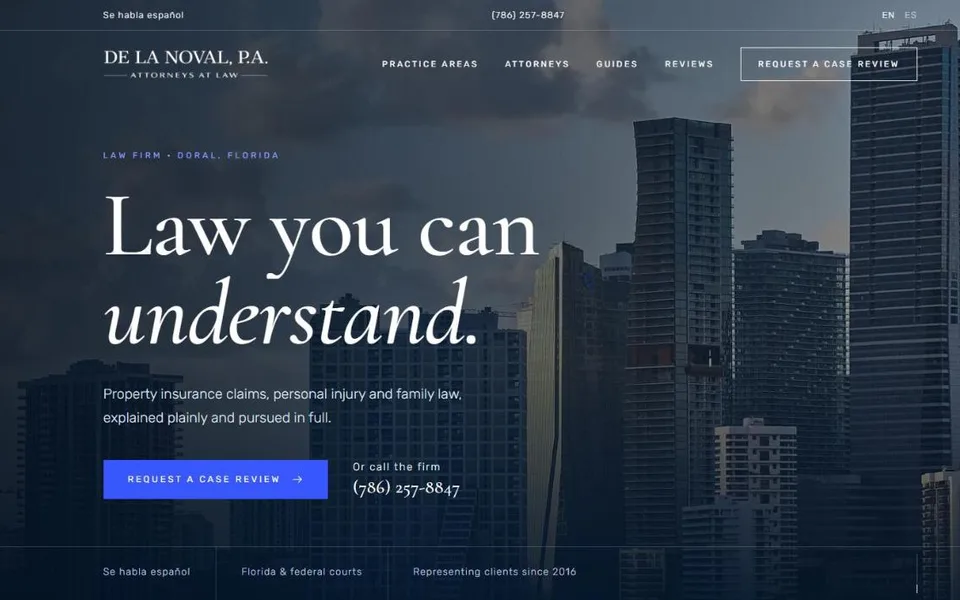
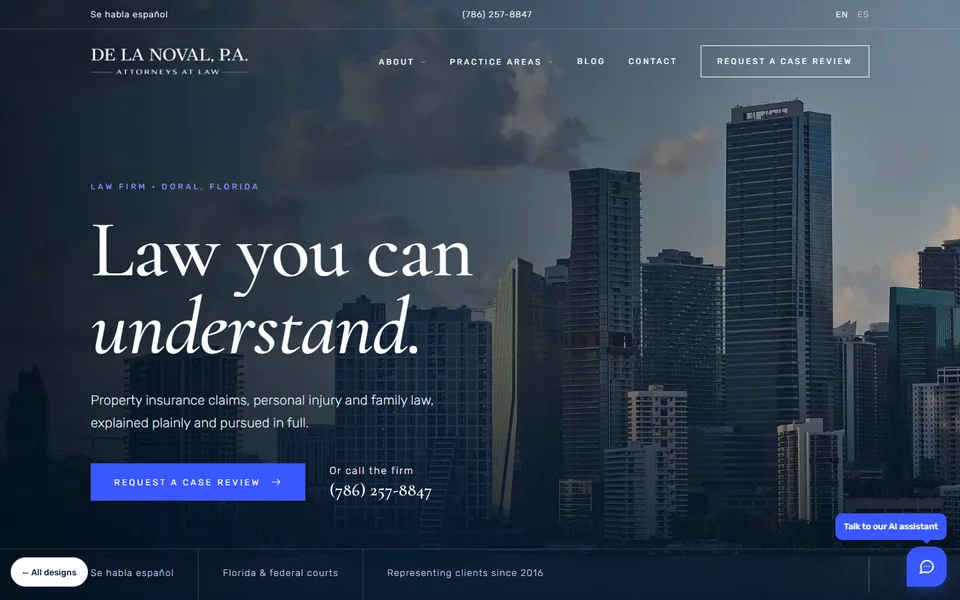
Prepare the preview for Lazaro's full review
Gallery now introduces the whole 11-page site and says the copy is a
draft pending his confirmation; homepage preview image and card text
refreshed. Unwritten blog topics show 'Coming soon' instead of dead
links. The draft tag now shows on phones too.

diff --git a/blog/index.html b/blog/index.html
@@ -268,7 +268,7 @@
 
   .mock-back{position:fixed;left:16px;bottom:20px;z-index:40;display:inline-flex;align-items:center;min-height:44px;padding:0 16px;border-radius:999px;background:#fff;color:var(--navy);border:1px solid var(--line);font:500 13px/1 var(--sans);text-decoration:none;box-shadow:0 6px 18px rgba(5,27,52,.16)}
   .mock-draft{position:fixed;left:148px;bottom:20px;z-index:40;display:inline-flex;align-items:center;min-height:44px;padding:0 16px;border-radius:999px;background:var(--ice);color:var(--navy);border:1px solid var(--royal-tint);font:400 12px/1 var(--sans);letter-spacing:.06em;box-shadow:0 6px 18px rgba(5,27,52,.16)}
-  @media (max-width:760px){.mock-draft{display:none}}
+  @media (max-width:760px){.mock-draft{left:16px;bottom:72px;min-height:32px;padding:0 12px;font-size:11px}}
 
   @media (prefers-reduced-motion:reduce){.person .ph img{transition:none}}
 
@@ -368,6 +368,8 @@
   .guide .meta span:last-child{color:var(--muted);letter-spacing:.16em}
   .guide h3{font-size:clamp(26px,2.2vw,34px);line-height:1.12;margin-bottom:22px}
   .guide .more{margin-top:auto;color:var(--navy)}
+  .guide.soon .more{color:var(--muted)}
+  .guide.soon:hover .ph img{transform:none}
   @media (max-width:900px){.cards{grid-template-columns:1fr 1fr}}
   @media (max-width:640px){.cards{grid-template-columns:1fr;row-gap:64px}.guide .ph img{aspect-ratio:16/9}}
 
@@ -439,7 +441,7 @@
           <span class="more sweep nudge">Read the article <svg width="16" height="16" viewBox="0 0 24 24" fill="none" stroke="currentColor" stroke-width="1.5" aria-hidden="true"><path d="M4 12h16M14 6l6 6-6 6"/></svg></span>
         </div>
       </a>
-      <div class="cards" data-stagger="100"><a class="guide" href="#" data-cat="injury" data-reveal><div class="ph"><img src="../assets/img/stock/brickell-night.webp" alt="" width="1024" height="768" loading="lazy"></div><div class="meta"><span>Personal injury</span><span>4 min read</span></div><h3>Hurt in a crash? Five things to do in the first week</h3><span class="more nudge">Read the article <svg width="16" height="16" viewBox="0 0 24 24" fill="none" stroke="currentColor" stroke-width="1.5" aria-hidden="true"><path d="M4 12h16M14 6l6 6-6 6"/></svg></span></a><a class="guide" href="#" data-cat="es" data-reveal lang="es"><div class="ph"><img src="../assets/img/stock/pen.webp" alt="" width="1024" height="769" loading="lazy"></div><div class="meta"><span>En español</span><span>5 min</span></div><h3>¿Le negaron su reclamo de seguro? Sus próximos pasos</h3><span class="more nudge">Leer el artículo <svg width="16" height="16" viewBox="0 0 24 24" fill="none" stroke="currentColor" stroke-width="1.5" aria-hidden="true"><path d="M4 12h16M14 6l6 6-6 6"/></svg></span></a><a class="guide" href="#" data-cat="property" data-reveal><div class="ph"><img src="../assets/img/stock/skyline-storm.webp" alt="" width="1024" height="511" loading="lazy"></div><div class="meta"><span>Property claims</span><span>6 min read</span></div><h3>Underpaid roof claim? How to read your insurer's estimate</h3><span class="more nudge">Read the article <svg width="16" height="16" viewBox="0 0 24 24" fill="none" stroke="currentColor" stroke-width="1.5" aria-hidden="true"><path d="M4 12h16M14 6l6 6-6 6"/></svg></span></a><a class="guide" href="#" data-cat="injury" data-reveal><div class="ph"><img src="../assets/img/stock/brickell-river.webp" alt="" width="1024" height="683" loading="lazy"></div><div class="meta"><span>Personal injury</span><span>3 min read</span></div><h3>Florida's two-year deadline for injury claims, explained</h3><span class="more nudge">Read the article <svg width="16" height="16" viewBox="0 0 24 24" fill="none" stroke="currentColor" stroke-width="1.5" aria-hidden="true"><path d="M4 12h16M14 6l6 6-6 6"/></svg></span></a><a class="guide" href="#" data-cat="family" data-reveal><div class="ph"><img src="../assets/img/stock/glass-tower.webp" alt="" width="960" height="720" loading="lazy"></div><div class="meta"><span>Family law</span><span>5 min read</span></div><h3>Time-sharing in Florida: what parents should know</h3><span class="more nudge">Read the article <svg width="16" height="16" viewBox="0 0 24 24" fill="none" stroke="currentColor" stroke-width="1.5" aria-hidden="true"><path d="M4 12h16M14 6l6 6-6 6"/></svg></span></a><a class="guide" href="#" data-cat="property" data-reveal><div class="ph"><img src="../assets/img/stock/library.webp" alt="" width="1024" height="683" loading="lazy"></div><div class="meta"><span>Property claims</span><span>4 min read</span></div><h3>What a "reservation of rights" letter from your insurer means</h3><span class="more nudge">Read the article <svg width="16" height="16" viewBox="0 0 24 24" fill="none" stroke="currentColor" stroke-width="1.5" aria-hidden="true"><path d="M4 12h16M14 6l6 6-6 6"/></svg></span></a></div>
+      <div class="cards" data-stagger="100"><div class="guide soon" data-cat="injury" data-reveal><div class="ph"><img src="../assets/img/stock/brickell-night.webp" alt="" width="1024" height="768" loading="lazy"></div><div class="meta"><span>Personal injury</span><span>4 min read</span></div><h3>Hurt in a crash? Five things to do in the first week</h3><span class="more">Coming soon</span></div><div class="guide soon" data-cat="es" data-reveal lang="es"><div class="ph"><img src="../assets/img/stock/pen.webp" alt="" width="1024" height="769" loading="lazy"></div><div class="meta"><span>En español</span><span>5 min</span></div><h3>¿Le negaron su reclamo de seguro? Sus próximos pasos</h3><span class="more">Próximamente</span></div><div class="guide soon" data-cat="property" data-reveal><div class="ph"><img src="../assets/img/stock/skyline-storm.webp" alt="" width="1024" height="511" loading="lazy"></div><div class="meta"><span>Property claims</span><span>6 min read</span></div><h3>Underpaid roof claim? How to read your insurer's estimate</h3><span class="more">Coming soon</span></div><div class="guide soon" data-cat="injury" data-reveal><div class="ph"><img src="../assets/img/stock/brickell-river.webp" alt="" width="1024" height="683" loading="lazy"></div><div class="meta"><span>Personal injury</span><span>3 min read</span></div><h3>Florida's two-year deadline for injury claims, explained</h3><span class="more">Coming soon</span></div><div class="guide soon" data-cat="family" data-reveal><div class="ph"><img src="../assets/img/stock/glass-tower.webp" alt="" width="960" height="720" loading="lazy"></div><div class="meta"><span>Family law</span><span>5 min read</span></div><h3>Time-sharing in Florida: what parents should know</h3><span class="more">Coming soon</span></div><div class="guide soon" data-cat="property" data-reveal><div class="ph"><img src="../assets/img/stock/library.webp" alt="" width="1024" height="683" loading="lazy"></div><div class="meta"><span>Property claims</span><span>4 min read</span></div><h3>What a "reservation of rights" letter from your insurer means</h3><span class="more">Coming soon</span></div></div>
     </div>
   </section>
 

diff --git a/blog/after-the-storm/index.html b/blog/after-the-storm/index.html
@@ -268,7 +268,7 @@
 
   .mock-back{position:fixed;left:16px;bottom:20px;z-index:40;display:inline-flex;align-items:center;min-height:44px;padding:0 16px;border-radius:999px;background:#fff;color:var(--navy);border:1px solid var(--line);font:500 13px/1 var(--sans);text-decoration:none;box-shadow:0 6px 18px rgba(5,27,52,.16)}
   .mock-draft{position:fixed;left:148px;bottom:20px;z-index:40;display:inline-flex;align-items:center;min-height:44px;padding:0 16px;border-radius:999px;background:var(--ice);color:var(--navy);border:1px solid var(--royal-tint);font:400 12px/1 var(--sans);letter-spacing:.06em;box-shadow:0 6px 18px rgba(5,27,52,.16)}
-  @media (max-width:760px){.mock-draft{display:none}}
+  @media (max-width:760px){.mock-draft{left:16px;bottom:72px;min-height:32px;padding:0 12px;font-size:11px}}
 
   @media (prefers-reduced-motion:reduce){.person .ph img{transition:none}}
 
@@ -368,6 +368,8 @@
   .guide .meta span:last-child{color:var(--muted);letter-spacing:.16em}
   .guide h3{font-size:clamp(26px,2.2vw,34px);line-height:1.12;margin-bottom:22px}
   .guide .more{margin-top:auto;color:var(--navy)}
+  .guide.soon .more{color:var(--muted)}
+  .guide.soon:hover .ph img{transform:none}
   @media (max-width:900px){.cards{grid-template-columns:1fr 1fr}}
   @media (max-width:640px){.cards{grid-template-columns:1fr;row-gap:64px}.guide .ph img{aspect-ratio:16/9}}
 
@@ -496,7 +498,7 @@
         <div class="label" data-reveal>Keep reading</div>
         <h2 id="related-title" data-reveal style="--d:100ms">Related articles</h2>
       </div>
-      <div class="cards" data-stagger="100"><a class="guide" href="#" data-cat="property" data-reveal><div class="ph"><img src="../../assets/img/stock/skyline-storm.webp" alt="" width="1024" height="511" loading="lazy"></div><div class="meta"><span>Property claims</span><span>6 min read</span></div><h3>Underpaid roof claim? How to read your insurer's estimate</h3><span class="more nudge">Read the article <svg width="16" height="16" viewBox="0 0 24 24" fill="none" stroke="currentColor" stroke-width="1.5" aria-hidden="true"><path d="M4 12h16M14 6l6 6-6 6"/></svg></span></a><a class="guide" href="#" data-cat="es" data-reveal lang="es"><div class="ph"><img src="../../assets/img/stock/pen.webp" alt="" width="1024" height="769" loading="lazy"></div><div class="meta"><span>En español</span><span>5 min</span></div><h3>¿Le negaron su reclamo de seguro? Sus próximos pasos</h3><span class="more nudge">Leer el artículo <svg width="16" height="16" viewBox="0 0 24 24" fill="none" stroke="currentColor" stroke-width="1.5" aria-hidden="true"><path d="M4 12h16M14 6l6 6-6 6"/></svg></span></a><a class="guide" href="#" data-cat="injury" data-reveal><div class="ph"><img src="../../assets/img/stock/brickell-night.webp" alt="" width="1024" height="768" loading="lazy"></div><div class="meta"><span>Personal injury</span><span>4 min read</span></div><h3>Hurt in a crash? Five things to do in the first week</h3><span class="more nudge">Read the article <svg width="16" height="16" viewBox="0 0 24 24" fill="none" stroke="currentColor" stroke-width="1.5" aria-hidden="true"><path d="M4 12h16M14 6l6 6-6 6"/></svg></span></a></div>
+      <div class="cards" data-stagger="100"><div class="guide soon" data-cat="property" data-reveal><div class="ph"><img src="../../assets/img/stock/skyline-storm.webp" alt="" width="1024" height="511" loading="lazy"></div><div class="meta"><span>Property claims</span><span>6 min read</span></div><h3>Underpaid roof claim? How to read your insurer's estimate</h3><span class="more">Coming soon</span></div><div class="guide soon" data-cat="es" data-reveal lang="es"><div class="ph"><img src="../../assets/img/stock/pen.webp" alt="" width="1024" height="769" loading="lazy"></div><div class="meta"><span>En español</span><span>5 min</span></div><h3>¿Le negaron su reclamo de seguro? Sus próximos pasos</h3><span class="more">Próximamente</span></div><div class="guide soon" data-cat="injury" data-reveal><div class="ph"><img src="../../assets/img/stock/brickell-night.webp" alt="" width="1024" height="768" loading="lazy"></div><div class="meta"><span>Personal injury</span><span>4 min read</span></div><h3>Hurt in a crash? Five things to do in the first week</h3><span class="more">Coming soon</span></div></div>
     </div>
   </section>
 

diff --git a/index.html b/index.html
@@ -4,7 +4,7 @@
 <meta charset="utf-8">
 <meta name="viewport" content="width=device-width, initial-scale=1">
 <title>Website Redesign | De La Noval, P.A.</title>
-<meta name="description" content="The new homepage and the original design concepts for the De La Noval, P.A. website.">
+<meta name="description" content="The new website and the original design concepts for De La Noval, P.A.">
 <meta name="robots" content="noindex">
 <link rel="preconnect" href="https://fonts.googleapis.com">
 <link rel="preconnect" href="https://fonts.gstatic.com" crossorigin>
@@ -55,9 +55,9 @@
 
   <section class="intro">
     <div class="eyebrow">Website redesign · October 2026</div>
-    <h1>Your new homepage for delanovalpa.com</h1>
-    <p>Built on Concept 1, with the pieces you picked from the other concepts: the guides, a claim check in the Personal Injury and Property tabs, the case types, and the case review form. It uses your new logo, and criminal defense and immigration have been removed.</p>
-    <p>Open it on your computer and your phone, and scroll slowly to see the animation. Forms and links are for demonstration only. The four original concepts are still below for reference.</p>
+    <h1>Your new website for delanovalpa.com</h1>
+    <p>Eleven pages, all in the style of the homepage you approved: About and both attorney profiles, Practice Areas with a page for each area, Contact, FAQs and the Blog. Start with the homepage and move around with the menu, the way a visitor would.</p>
+    <p>All of the wording is a draft for your review. Some is adapted from your current site and some is new, and the legal statements need your confirmation before anything goes live. Forms, the chat assistant and the English/Spanish switch are for demonstration only. The four original concepts are at the bottom for reference.</p>
   </section>
 
   <a class="card featured" href="homepage/index.html">
@@ -65,7 +65,7 @@
     <div class="body">
       <div class="num">Homepage · Revision 1</div>
       <h2>Your homepage</h2>
-      <p>Concept 1's look throughout, with practice-area tabs, an injury and property claim check, legal guides, and a case review form at the close.</p>
+      <p>Concept 1's look throughout, with practice-area tabs, an injury and property claim check, articles from the blog, and a case review form at the close.</p>
       <span class="go">Open homepage &rarr;</span>
     </div>
   </a>

diff --git a/about/index.html b/about/index.html
@@ -268,7 +268,7 @@
 
   .mock-back{position:fixed;left:16px;bottom:20px;z-index:40;display:inline-flex;align-items:center;min-height:44px;padding:0 16px;border-radius:999px;background:#fff;color:var(--navy);border:1px solid var(--line);font:500 13px/1 var(--sans);text-decoration:none;box-shadow:0 6px 18px rgba(5,27,52,.16)}
   .mock-draft{position:fixed;left:148px;bottom:20px;z-index:40;display:inline-flex;align-items:center;min-height:44px;padding:0 16px;border-radius:999px;background:var(--ice);color:var(--navy);border:1px solid var(--royal-tint);font:400 12px/1 var(--sans);letter-spacing:.06em;box-shadow:0 6px 18px rgba(5,27,52,.16)}
-  @media (max-width:760px){.mock-draft{display:none}}
+  @media (max-width:760px){.mock-draft{left:16px;bottom:72px;min-height:32px;padding:0 12px;font-size:11px}}
 
   @media (prefers-reduced-motion:reduce){.person .ph img{transition:none}}
 </style>

diff --git a/about/elizabeth-diaz-fernandez/index.html b/about/elizabeth-diaz-fernandez/index.html
@@ -268,7 +268,7 @@
 
   .mock-back{position:fixed;left:16px;bottom:20px;z-index:40;display:inline-flex;align-items:center;min-height:44px;padding:0 16px;border-radius:999px;background:#fff;color:var(--navy);border:1px solid var(--line);font:500 13px/1 var(--sans);text-decoration:none;box-shadow:0 6px 18px rgba(5,27,52,.16)}
   .mock-draft{position:fixed;left:148px;bottom:20px;z-index:40;display:inline-flex;align-items:center;min-height:44px;padding:0 16px;border-radius:999px;background:var(--ice);color:var(--navy);border:1px solid var(--royal-tint);font:400 12px/1 var(--sans);letter-spacing:.06em;box-shadow:0 6px 18px rgba(5,27,52,.16)}
-  @media (max-width:760px){.mock-draft{display:none}}
+  @media (max-width:760px){.mock-draft{left:16px;bottom:72px;min-height:32px;padding:0 12px;font-size:11px}}
 
   @media (prefers-reduced-motion:reduce){.person .ph img{transition:none}}
 

diff --git a/about/lazaro-de-la-noval/index.html b/about/lazaro-de-la-noval/index.html
@@ -268,7 +268,7 @@
 
   .mock-back{position:fixed;left:16px;bottom:20px;z-index:40;display:inline-flex;align-items:center;min-height:44px;padding:0 16px;border-radius:999px;background:#fff;color:var(--navy);border:1px solid var(--line);font:500 13px/1 var(--sans);text-decoration:none;box-shadow:0 6px 18px rgba(5,27,52,.16)}
   .mock-draft{position:fixed;left:148px;bottom:20px;z-index:40;display:inline-flex;align-items:center;min-height:44px;padding:0 16px;border-radius:999px;background:var(--ice);color:var(--navy);border:1px solid var(--royal-tint);font:400 12px/1 var(--sans);letter-spacing:.06em;box-shadow:0 6px 18px rgba(5,27,52,.16)}
-  @media (max-width:760px){.mock-draft{display:none}}
+  @media (max-width:760px){.mock-draft{left:16px;bottom:72px;min-height:32px;padding:0 12px;font-size:11px}}
 
   @media (prefers-reduced-motion:reduce){.person .ph img{transition:none}}
 

diff --git a/contact/index.html b/contact/index.html
@@ -268,7 +268,7 @@
 
   .mock-back{position:fixed;left:16px;bottom:20px;z-index:40;display:inline-flex;align-items:center;min-height:44px;padding:0 16px;border-radius:999px;background:#fff;color:var(--navy);border:1px solid var(--line);font:500 13px/1 var(--sans);text-decoration:none;box-shadow:0 6px 18px rgba(5,27,52,.16)}
   .mock-draft{position:fixed;left:148px;bottom:20px;z-index:40;display:inline-flex;align-items:center;min-height:44px;padding:0 16px;border-radius:999px;background:var(--ice);color:var(--navy);border:1px solid var(--royal-tint);font:400 12px/1 var(--sans);letter-spacing:.06em;box-shadow:0 6px 18px rgba(5,27,52,.16)}
-  @media (max-width:760px){.mock-draft{display:none}}
+  @media (max-width:760px){.mock-draft{left:16px;bottom:72px;min-height:32px;padding:0 12px;font-size:11px}}
 
   @media (prefers-reduced-motion:reduce){.person .ph img{transition:none}}
 

diff --git a/faqs/index.html b/faqs/index.html
@@ -268,7 +268,7 @@
 
   .mock-back{position:fixed;left:16px;bottom:20px;z-index:40;display:inline-flex;align-items:center;min-height:44px;padding:0 16px;border-radius:999px;background:#fff;color:var(--navy);border:1px solid var(--line);font:500 13px/1 var(--sans);text-decoration:none;box-shadow:0 6px 18px rgba(5,27,52,.16)}
   .mock-draft{position:fixed;left:148px;bottom:20px;z-index:40;display:inline-flex;align-items:center;min-height:44px;padding:0 16px;border-radius:999px;background:var(--ice);color:var(--navy);border:1px solid var(--royal-tint);font:400 12px/1 var(--sans);letter-spacing:.06em;box-shadow:0 6px 18px rgba(5,27,52,.16)}
-  @media (max-width:760px){.mock-draft{display:none}}
+  @media (max-width:760px){.mock-draft{left:16px;bottom:72px;min-height:32px;padding:0 12px;font-size:11px}}
 
   @media (prefers-reduced-motion:reduce){.person .ph img{transition:none}}
 

diff --git a/practice-areas/family-law/index.html b/practice-areas/family-law/index.html
@@ -268,7 +268,7 @@
 
   .mock-back{position:fixed;left:16px;bottom:20px;z-index:40;display:inline-flex;align-items:center;min-height:44px;padding:0 16px;border-radius:999px;background:#fff;color:var(--navy);border:1px solid var(--line);font:500 13px/1 var(--sans);text-decoration:none;box-shadow:0 6px 18px rgba(5,27,52,.16)}
   .mock-draft{position:fixed;left:148px;bottom:20px;z-index:40;display:inline-flex;align-items:center;min-height:44px;padding:0 16px;border-radius:999px;background:var(--ice);color:var(--navy);border:1px solid var(--royal-tint);font:400 12px/1 var(--sans);letter-spacing:.06em;box-shadow:0 6px 18px rgba(5,27,52,.16)}
-  @media (max-width:760px){.mock-draft{display:none}}
+  @media (max-width:760px){.mock-draft{left:16px;bottom:72px;min-height:32px;padding:0 12px;font-size:11px}}
 
   @media (prefers-reduced-motion:reduce){.person .ph img{transition:none}}
 

diff --git a/practice-areas/index.html b/practice-areas/index.html
@@ -268,7 +268,7 @@
 
   .mock-back{position:fixed;left:16px;bottom:20px;z-index:40;display:inline-flex;align-items:center;min-height:44px;padding:0 16px;border-radius:999px;background:#fff;color:var(--navy);border:1px solid var(--line);font:500 13px/1 var(--sans);text-decoration:none;box-shadow:0 6px 18px rgba(5,27,52,.16)}
   .mock-draft{position:fixed;left:148px;bottom:20px;z-index:40;display:inline-flex;align-items:center;min-height:44px;padding:0 16px;border-radius:999px;background:var(--ice);color:var(--navy);border:1px solid var(--royal-tint);font:400 12px/1 var(--sans);letter-spacing:.06em;box-shadow:0 6px 18px rgba(5,27,52,.16)}
-  @media (max-width:760px){.mock-draft{display:none}}
+  @media (max-width:760px){.mock-draft{left:16px;bottom:72px;min-height:32px;padding:0 12px;font-size:11px}}
 
   @media (prefers-reduced-motion:reduce){.person .ph img{transition:none}}
 

diff --git a/practice-areas/personal-injury/index.html b/practice-areas/personal-injury/index.html
@@ -268,7 +268,7 @@
 
   .mock-back{position:fixed;left:16px;bottom:20px;z-index:40;display:inline-flex;align-items:center;min-height:44px;padding:0 16px;border-radius:999px;background:#fff;color:var(--navy);border:1px solid var(--line);font:500 13px/1 var(--sans);text-decoration:none;box-shadow:0 6px 18px rgba(5,27,52,.16)}
   .mock-draft{position:fixed;left:148px;bottom:20px;z-index:40;display:inline-flex;align-items:center;min-height:44px;padding:0 16px;border-radius:999px;background:var(--ice);color:var(--navy);border:1px solid var(--royal-tint);font:400 12px/1 var(--sans);letter-spacing:.06em;box-shadow:0 6px 18px rgba(5,27,52,.16)}
-  @media (max-width:760px){.mock-draft{display:none}}
+  @media (max-width:760px){.mock-draft{left:16px;bottom:72px;min-height:32px;padding:0 12px;font-size:11px}}
 
   @media (prefers-reduced-motion:reduce){.person .ph img{transition:none}}
 

diff --git a/practice-areas/property-damage/index.html b/practice-areas/property-damage/index.html
@@ -268,7 +268,7 @@
 
   .mock-back{position:fixed;left:16px;bottom:20px;z-index:40;display:inline-flex;align-items:center;min-height:44px;padding:0 16px;border-radius:999px;background:#fff;color:var(--navy);border:1px solid var(--line);font:500 13px/1 var(--sans);text-decoration:none;box-shadow:0 6px 18px rgba(5,27,52,.16)}
   .mock-draft{position:fixed;left:148px;bottom:20px;z-index:40;display:inline-flex;align-items:center;min-height:44px;padding:0 16px;border-radius:999px;background:var(--ice);color:var(--navy);border:1px solid var(--royal-tint);font:400 12px/1 var(--sans);letter-spacing:.06em;box-shadow:0 6px 18px rgba(5,27,52,.16)}
-  @media (max-width:760px){.mock-draft{display:none}}
+  @media (max-width:760px){.mock-draft{left:16px;bottom:72px;min-height:32px;padding:0 12px;font-size:11px}}
 
   @media (prefers-reduced-motion:reduce){.person .ph img{transition:none}}
 
